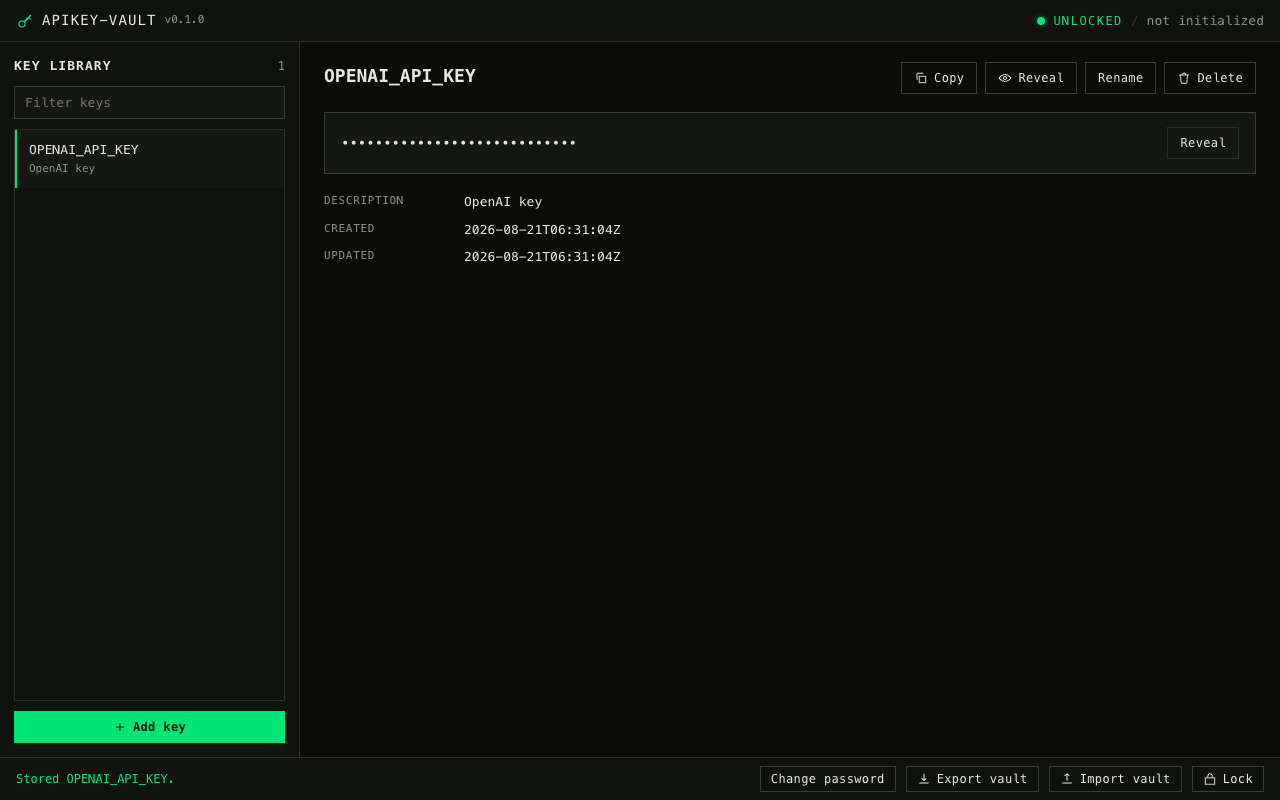
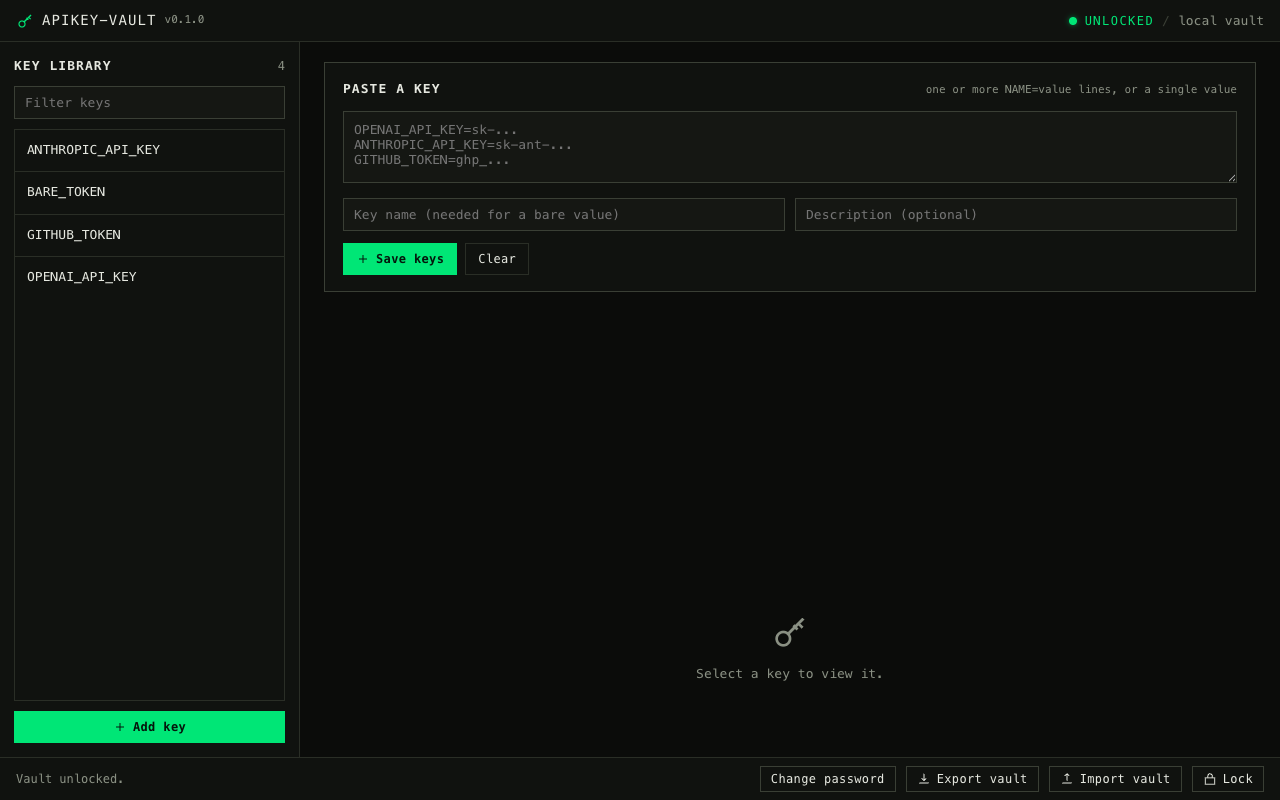
feat(gui): add key paste box — paste NAME=value lines or a bare value
- New 'Paste a key' panel in the GUI: multi-line NAME=value paste
  (supports 'export ' prefix and quoted values), or a single bare value
  with a manual name; Cmd/Ctrl+Enter to save
- Shows per-key errors inline; clears after save; verified in Chrome
- Rebuilt standalone .app bundle with the updated GUI

diff --git a/apivault/web/app.js b/apivault/web/app.js
@@ -85,6 +85,11 @@ async function setLocked(locked) {
   if (locked) {
     $("unlock-password").value = "";
     $("unlock-error").hidden = true;
+    $("paste-input").value = "";
+    $("paste-name").value = "";
+    $("paste-desc").value = "";
+    $("paste-status").textContent = "";
+    showPasteBox(false);
     $("unlock-password").focus();
   } else {
     setStatus("Vault unlocked.");
@@ -137,6 +142,7 @@ function selectKey(name) {
 
   $("empty-detail").hidden = true;
   $("editor").hidden = true;
+  showPasteBox(true);
   $("key-detail").hidden = false;
   $("detail-name").textContent = key.name;
   $("detail-desc").textContent = key.description || "—";
@@ -184,15 +190,96 @@ async function loadKeys() {
 function showEmptyDetail() {
   $("key-detail").hidden = true;
   $("editor").hidden = true;
+  showPasteBox(true);
   $("empty-detail").hidden = false;
   $("empty-text").textContent =
     state.keys.length === 0 ? "No keys yet — add one." : "Select a key to view it.";
+}
+
+/* ------------------------------------------------------- paste a key */
+function showPasteBox(show) {
+  $("paste-box").hidden = !show;
+}
+
+function unquoteValue(s) {
+  let v = s.trim();
+  if (
+    (v.startsWith('"') && v.endsWith('"')) ||
+    (v.startsWith("'") && v.endsWith("'"))
+  ) {
+    v = v.slice(1, -1);
+  }
+  return v;
+}
+
+/* Parse pasted text into [{name, value}].
+   Accepts one or more `NAME=value` lines (optionally prefixed with `export `,
+   values may be quoted), or a single bare value combined with the name field. */
+function parsePasted(text, nameField) {
+  const lines = text.split(/\r?\n/).map((l) => l.trim()).filter(Boolean);
+  const entries = [];
+  for (const line of lines) {
+    const m = line.match(/^(?:export\s+)?([A-Za-z_][A-Za-z0-9_.-]*)\s*=\s*(.*)$/);
+    if (m) {
+      entries.push({ name: m[1], value: unquoteValue(m[2]) });
+    } else {
+      if (lines.length > 1) {
+        throw new Error("line has no NAME= prefix: " + line.slice(0, 40));
+      }
+      if (!nameField) {
+        throw new Error("enter a key name for the pasted value");
+      }
+      entries.push({ name: nameField, value: unquoteValue(line) });
+    }
+  }
+  return entries;
+}
+
+async function onPasteSave() {
+  const text = $("paste-input").value;
+  const nameField = $("paste-name").value.trim();
+  const desc = $("paste-desc").value.trim();
+  $("paste-status").textContent = "";
+  if (!text.trim()) {
+    setStatus("Paste a key first.", "error");
+    return;
+  }
+  let entries;
+  try {
+    entries = parsePasted(text, nameField);
+  } catch (err) {
+    $("paste-status").textContent = err.message;
+    setStatus("Cannot parse paste: " + err.message, "error");
+    return;
+  }
+  let created = 0;
+  let updated = 0;
+  for (const entry of entries) {
+    const res = await api("PUT", "/v1/keys/" + encodeURIComponent(entry.name), {
+      body: { value: entry.value, description: desc || undefined },
+    });
+    if (res.status === 201) created += 1;
+    else if (res.status === 200) updated += 1;
+    else {
+      setStatus("Failed to save " + entry.name + ": " + (await safeError(res)), "error");
+      return;
+    }
+  }
+  $("paste-input").value = "";
+  $("paste-name").value = "";
+  $("paste-status").textContent = "";
+  await loadKeys();
+  selectKey(entries[0].name);
+  const msg = created > 0 ? "Stored " + created + " key" + (created === 1 ? "" : "s") : "";
+  const upd = updated > 0 ? (msg ? ", updated " + updated : "Updated " + updated) : "";
+  setStatus(msg + upd + ".", "ok");
 }
 
 /* ---------------------------------------------------------------- editor */
 function openEditor(mode, key) {
   $("key-detail").hidden = true;
   $("empty-detail").hidden = true;
+  showPasteBox(false);
   $("editor").hidden = false;
   $("editor-title").textContent = mode === "add" ? "Add key" : "Rename key";
   $("edit-name").value = key ? key.name : "";
@@ -617,6 +704,15 @@ function wire() {
   $("editor-cancel").addEventListener("click", () => {
     if (state.selected) selectKey(state.selected);
     else showEmptyDetail();
+  });
+  $("paste-save").addEventListener("click", onPasteSave);
+  $("paste-clear").addEventListener("click", () => {
+    $("paste-input").value = "";
+    $("paste-name").value = "";
+    $("paste-status").textContent = "";
+  });
+  $("paste-input").addEventListener("keydown", (e) => {
+    if ((e.metaKey || e.ctrlKey) && e.key === "Enter") onPasteSave();
   });
   $("copy-btn").addEventListener("click", copyValue);
   $("reveal-btn").addEventListener("click", () => revealValue());

diff --git a/apivault/web/index.html b/apivault/web/index.html
@@ -133,6 +133,25 @@
           </aside>
 
           <section class="detail">
+            <!-- quick paste box: paste NAME=value lines or a single value -->
+            <div id="paste-box" class="panel" hidden>
+              <div class="paste-head">
+                <h2>Paste a key</h2>
+                <span class="muted hint">one or more <code>NAME=value</code> lines, or a single value</span>
+              </div>
+              <textarea id="paste-input" rows="3" spellcheck="false" autocomplete="off"
+                placeholder="OPENAI_API_KEY=sk-...&#10;ANTHROPIC_API_KEY=sk-ant-...&#10;GITHUB_TOKEN=ghp_..."></textarea>
+              <div class="paste-extra">
+                <input type="text" id="paste-name" placeholder="Key name (needed for a bare value)" spellcheck="false" autocomplete="off">
+                <input type="text" id="paste-desc" placeholder="Description (optional)" spellcheck="false" autocomplete="off">
+              </div>
+              <div class="paste-actions">
+                <button id="paste-save" class="primary"><svg class="icon" aria-hidden="true"><use href="#i-plus"/></svg>Save keys</button>
+                <button id="paste-clear" class="ghost">Clear</button>
+                <span id="paste-status" class="muted"></span>
+              </div>
+            </div>
+
             <div id="empty-detail" class="empty">
               <svg class="icon big muted" aria-hidden="true"><use href="#i-key"/></svg>
               <p id="empty-text">No keys yet — add one.</p>

diff --git a/apivault/web/style.css b/apivault/web/style.css
@@ -223,6 +223,36 @@ button.link:hover { color: var(--green); border: none; }
 .meta dd { word-break: break-all; }
 
 /* ------------------------------------------------------------- editor */
+#paste-box { border: 1px solid var(--border-strong); background: var(--panel); padding: 16px 18px; margin-bottom: 18px; }
+.paste-head { display: flex; align-items: baseline; justify-content: space-between; gap: 12px; flex-wrap: wrap; }
+.paste-head h2 { font-size: 13px; letter-spacing: 0.08em; text-transform: uppercase; }
+.paste-head .hint { font-size: 11px; }
+
+#paste-input {
+  width: 100%;
+  margin-top: 12px;
+  background: var(--input);
+  border: 1px solid var(--border-strong);
+  color: var(--text);
+  font-family: var(--mono);
+  font-size: 13px;
+  padding: 10px;
+  border-radius: 0;
+  outline: none;
+  resize: vertical;
+  min-height: 72px;
+}
+#paste-input:focus { border-color: var(--green); }
+
+.paste-extra { display: grid; grid-template-columns: 1fr 1fr; gap: 10px; margin-top: 10px; }
+.paste-extra input { width: 100%; }
+.paste-actions { display: flex; align-items: center; gap: 8px; margin-top: 12px; }
+#paste-status { font-size: 12px; }
+
+@media (max-width: 760px) {
+  .paste-extra { grid-template-columns: 1fr; }
+}
+
 #editor { border: 1px solid var(--border-strong); background: var(--panel); padding: 20px; margin-top: 18px; }
 #editor h2 { font-size: 14px; margin-bottom: 14px; letter-spacing: 0.06em; text-transform: uppercase; }
 

diff --git a/README.md b/README.md
@@ -8,7 +8,8 @@ SQLite 中：人类用**图形界面或 CLI** 管理，Agent 用 CLI 或本地 H
 
 ## ✨ 特性
 
-- **图形界面（GUI）**：浏览器单页应用，锁定/解锁门禁、密钥库列表、密钥输入/编辑、一键复制、
+- **图形界面（GUI）**：浏览器单页应用，锁定/解锁门禁、密钥库列表、**密钥粘贴输入框**
+  （支持多行 `NAME=value`、`export` 前缀、带引号值、裸值+名称）、密钥输入/编辑、一键复制、
   显示/隐藏、重命名、删除、改密、导出/导入、首启初始化。
 - **加密存储**：AES-256-GCM 认证加密 + scrypt 密钥派生；主密码永不落盘；磁盘上无明文。
 - **人类 CLI**：`store` / `get` / `list` / `delete` / `rename` / `export-env` / `change-password` / `export` / `import`。
@@ -24,8 +25,9 @@ SQLite 中：人类用**图形界面或 CLI** 管理，Agent 用 CLI 或本地 H
 ## 📸 界面预览
 
 ![锁定界面](docs/screenshot-locked.png)
-![密钥库](docs/screenshot-unlocked.png)
+![密钥库（含粘贴输入框）](docs/screenshot-unlocked.png)
 ![密钥详情](docs/screenshot-detail.png)
+![粘贴密钥](docs/screenshot-paste.png)
 
 ## 📦 安装
 
@@ -42,7 +44,9 @@ apivault serve --open        # 启动并自动打开浏览器 http://127.0.0.1:8
 ```
 
 - **首次使用**：界面会引导你创建保险库（设置主密码）。
-- 之后每次打开：输入主密码解锁 → 增删改查密钥库。
+- 之后每次打开：输入主密码解锁 → 在顶部 **Paste a key** 框直接粘贴密钥
+  （`OPENAI_API_KEY=sk-...`，可一次粘贴多行；`Cmd/Ctrl+Enter` 快速保存），
+  或点左侧 **Add key** 逐个填写。
 - 底部栏可**锁定 / 改密 / 导出加密 vault / 导入加密 vault**。
 
 ### 多端访问（局域网）
